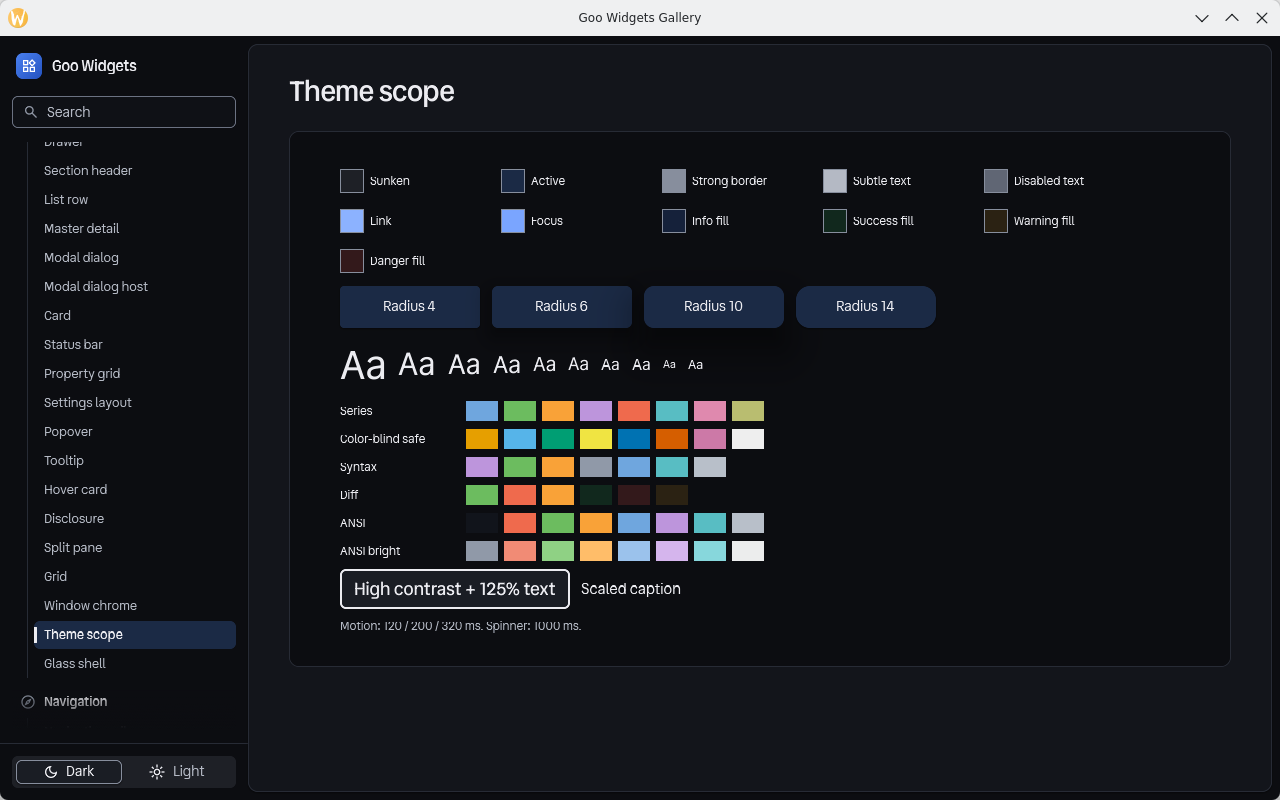
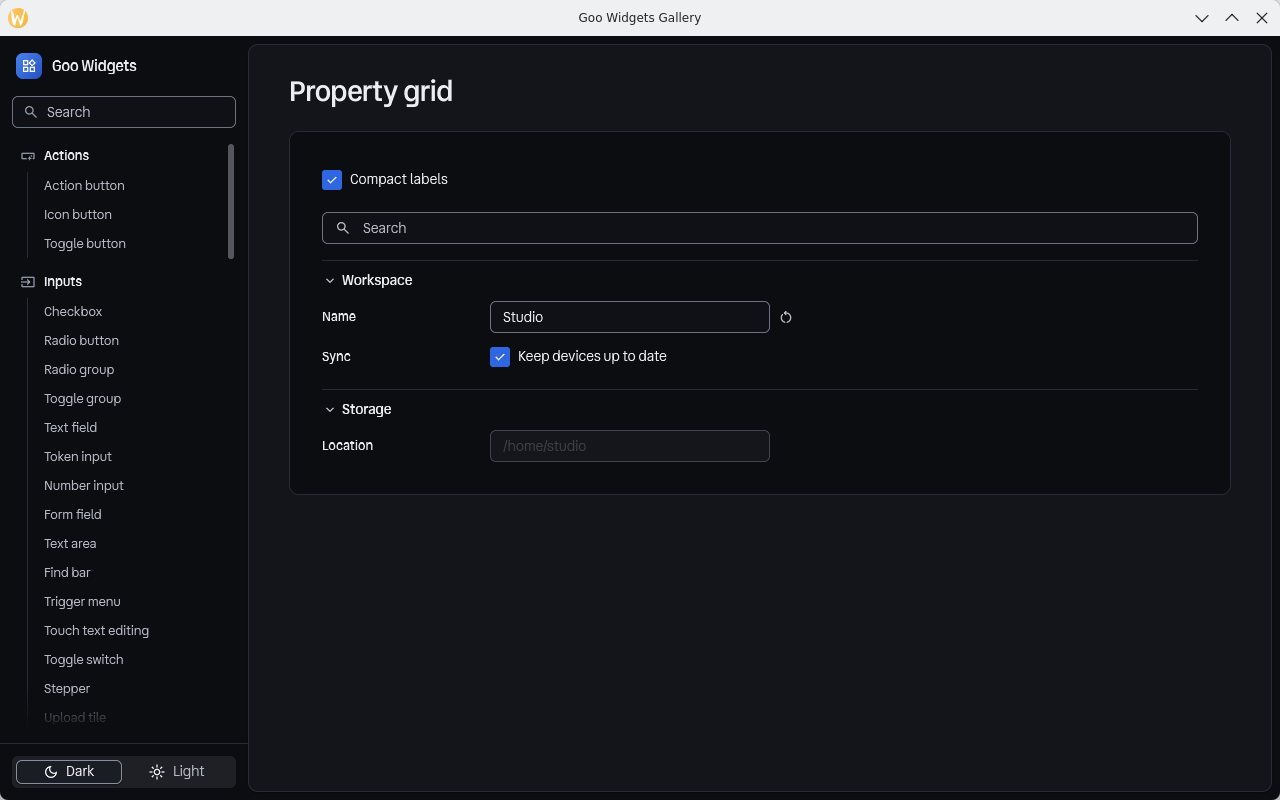
Show application settings in README image

diff --git a/plugins/goo/reference/README.md b/plugins/goo/reference/README.md
@@ -4,9 +4,7 @@
 
 <p align="center">A declarative retained GUI framework for .NET. Written in <a href="https://github.com/DavidObando/gsharp">G#</a>, a .NET language, and rendered directly with Vulkan.</p>
 
-![Goo Widgets Gallery showing theme colors, typography and controls](https://github.com/obselate/goo/blob/main/docs/assets/goo-gallery.png)
-
-Goo Widgets Gallery on native Wayland, captured at 1280 × 800 and scale 1.
+![Goo Widgets Gallery showing workspace settings in a property grid](https://github.com/obselate/goo/blob/main/docs/assets/goo-gallery.png)
 
 Learn G# with the [language tour](https://davidobando.github.io/gsharp/docs/tour/) and [editor support](https://github.com/DavidObando/gsharp#editor-support).
 

diff --git a/README.md b/README.md
@@ -4,9 +4,7 @@
 
 <p align="center">A declarative retained GUI framework for .NET. Written in <a href="https://github.com/DavidObando/gsharp">G#</a>, a .NET language, and rendered directly with Vulkan.</p>
 
-![Goo Widgets Gallery showing theme colors, typography and controls](docs/assets/goo-gallery.png)
-
-Goo Widgets Gallery on native Wayland, captured at 1280 × 800 and scale 1.
+![Goo Widgets Gallery showing workspace settings in a property grid](docs/assets/goo-gallery.png)
 
 Learn G# with the [language tour](https://davidobando.github.io/gsharp/docs/tour/) and [editor support](https://github.com/DavidObando/gsharp#editor-support).
 

diff --git a/changelog.d/readme-application-image.md b/changelog.d/readme-application-image.md
@@ -1,0 +1,3 @@
+## Changed
+
+- Show an application-style Widgets view in the README without a separate capture caption.
